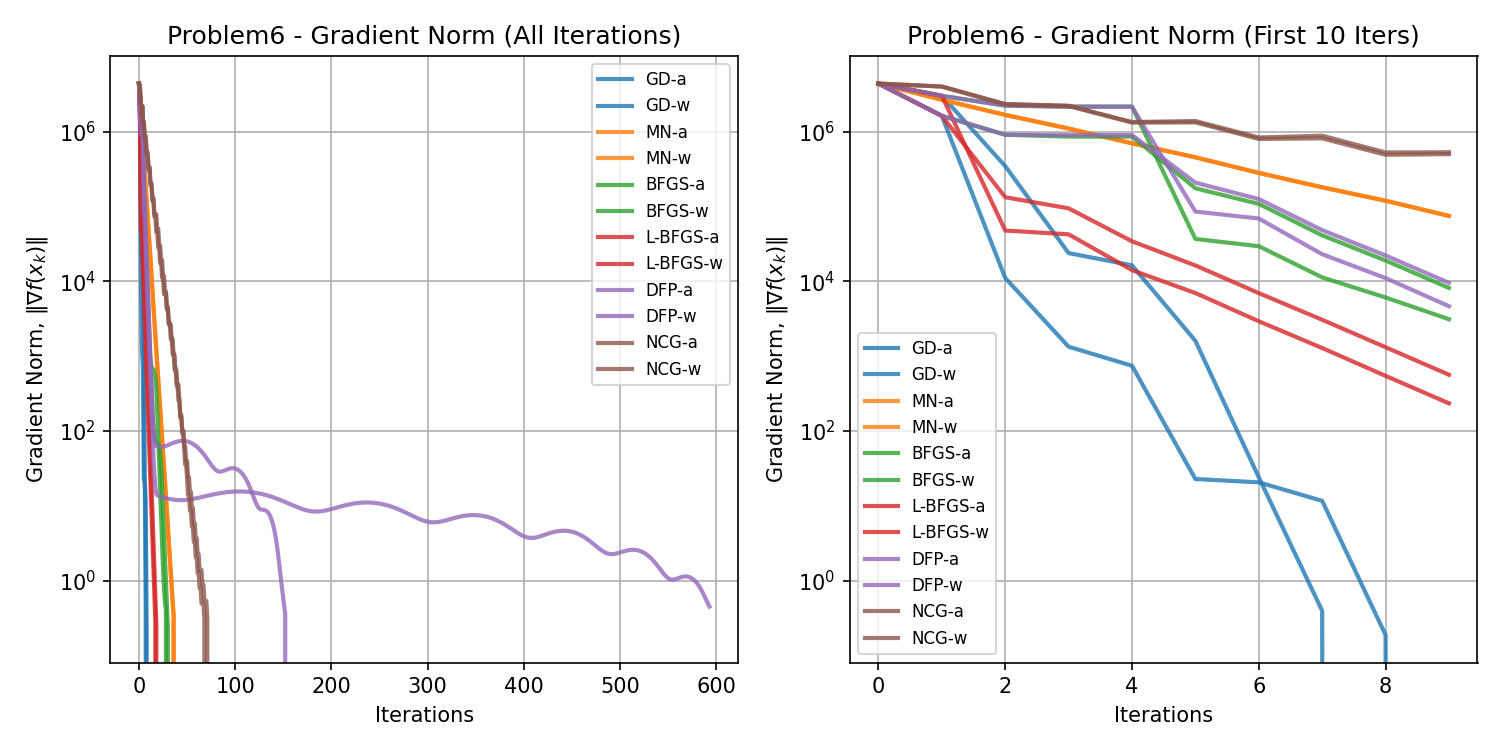
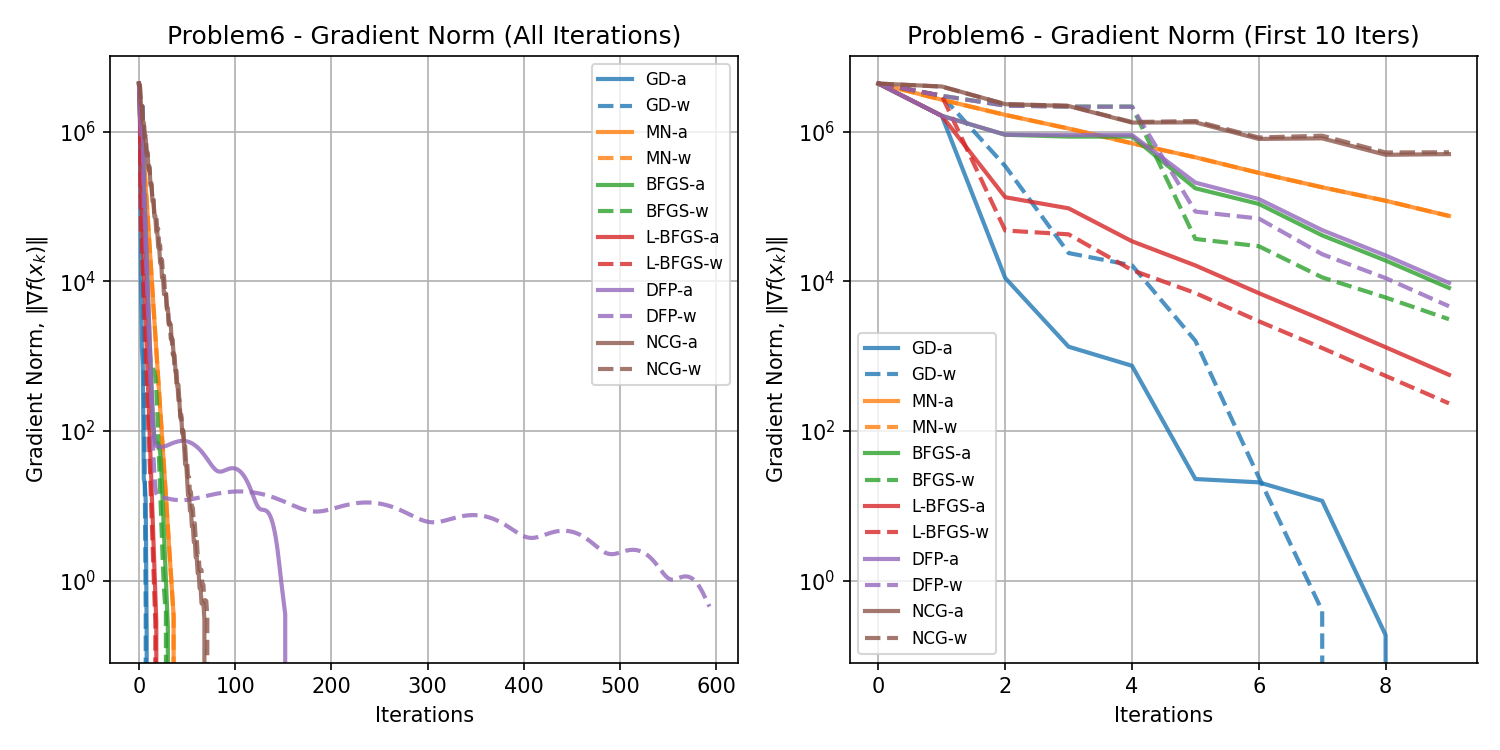
log-axis in time and iteration plots, and hatch for bar plots

diff --git a/utils.py b/utils.py
@@ -17,7 +17,7 @@ def plot_styles():
 
     line_styles = {
         'a':    '-',
-        'W':    '--'
+        'w':    '--'
     }
 
     return color_map, line_styles
@@ -67,17 +67,17 @@ def plot_gradient_norm(results, problem_name, plot_styles=plot_styles):
 
     # Find iteration limits
     max_iters_all = 0
-    max_iters_exc_gd = 0
+    max_iters_exc = 0
     for name, result in results.items():
         base_name, variant = parse_algorithm_name(name)
-        if base_name != 'Gradient Descent':
+        if base_name != 'GD':
             # exclude DFP only for problem 12 or problem 7
             if base_name != 'DFP' and (problem_name == 'Problem12' or problem_name == 'Problem7'):
-                max_iters_exc_gd = max(max_iters_exc_gd, result['i'])
+                max_iters_exc = max(max_iters_exc, result['i'])
         max_iters_all = max(max_iters_all, result['i'])
 
     # Zoomed-in iteration count
-    zoom_iterations = max(max_iters_exc_gd, 10)
+    zoom_iterations = max(max_iters_exc, 10)
     max_iters_all   = max(max_iters_all, 10)
 
     plt.figure(figsize=(10, 5))
@@ -147,16 +147,16 @@ def plot_function_value(results, problem_name, plot_styles=plot_styles):
     color_map, line_styles = plot_styles()
 
     max_iters_all = 0
-    max_iters_exc_gd = 0
+    max_iters_exc = 0
     for name, result in results.items():
         base_name, variant = parse_algorithm_name(name)
-        if base_name != 'Gradient Descent':
+        if base_name != 'GD':
             # exclude DFP only for problem 12 or problem 7
             if base_name != 'DFP' and (problem_name == 'Problem12' or problem_name == 'Problem7'):
-                max_iters_exc_gd = max(max_iters_exc_gd, result['i'])
+                max_iters_exc = max(max_iters_exc, result['i'])
         max_iters_all = max(max_iters_all, result['i'])
 
-    zoom_iterations = max(max_iters_exc_gd, 10)
+    zoom_iterations = max(max_iters_exc, 10)
     max_iters_all   = max(max_iters_all, 10)
 
     plt.figure(figsize=(10, 5))
@@ -224,11 +224,16 @@ def plot_time_iterations(results, problem_name, plot_styles=plot_styles):
     for name, result in results.items():
         base_name, variant = parse_algorithm_name(name)
         color = color_map.get(base_name, 'black')
-        ax_time.bar(name, result['t'], color=color)
+        # dashed bar for 'w' variant
+        if variant == 'w':
+            ax_time.bar(name, result['t'], color=color, hatch='//')
+        else:
+            ax_time.bar(name, result['t'], color=color)
 
     ax_time.set_title(f'{problem_name} - Total Time')
     ax_time.set_xlabel('Algorithms')
     ax_time.set_ylabel('Time (seconds)')
+    ax_time.set_yscale('log')
     ax_time.tick_params(axis='x', rotation=45)
 
     # Right subplot: Total iterations
@@ -236,11 +241,16 @@ def plot_time_iterations(results, problem_name, plot_styles=plot_styles):
     for name, result in results.items():
         base_name, variant = parse_algorithm_name(name)
         color = color_map.get(base_name, 'black')
-        ax_iter.bar(name, result['i'], color=color)
+        # dashed bar for 'w' variant
+        if variant == 'w':
+            ax_iter.bar(name, result['i'], color=color, hatch='//')
+        else:
+            ax_iter.bar(name, result['i'], color=color)
 
     ax_iter.set_title(f'{problem_name} - Total Iterations')
     ax_iter.set_xlabel('Algorithms')
     ax_iter.set_ylabel('Number of Iterations')
+    ax_iter.set_yscale('log')
     ax_iter.tick_params(axis='x', rotation=45)
 
     plt.tight_layout()
